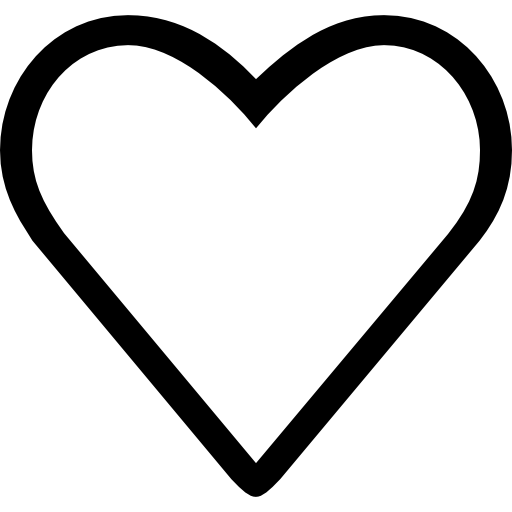
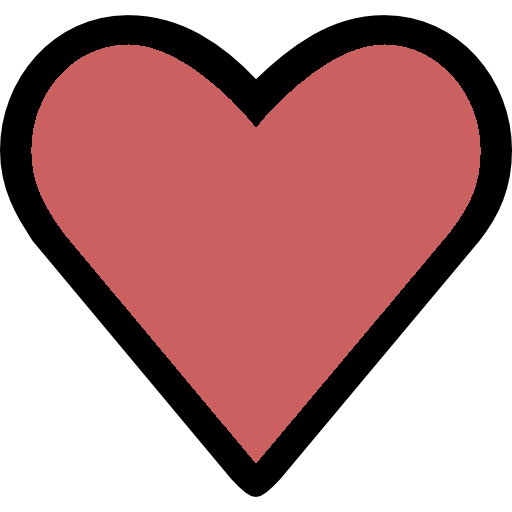
social updates

diff --git a/my-app/src/components/Feed/components/SocialUnit/SocialUnit.js b/my-app/src/components/Feed/components/SocialUnit/SocialUnit.js
@@ -1,5 +1,9 @@
 import React from "react";
 import "../../../../App.css";
+import "./Social.css";
+import { connect } from "react-redux";
+import { addHeart } from "./actions";
+
 
 class SocialUnit extends React.Component {
 
@@ -11,17 +15,17 @@ class SocialUnit extends React.Component {
   }
 
 
-  handleheart = (messageID) => {
+  handleHeart = (messageID) => {
     const { currUser } = this.props;
     let heartsToGive = -1;
-    if (!this.state.clapsGiven) {
+    if (!this.state.heartGiven) {
       heartsToGive = 1;
     }
     this.setState({
-      clapsGiven: !this.state.clapsGiven,
+      heartGiven: !this.state.heartGiven,
     });
     const info = { id: messageID, value: heartsToGive, donor: currUser};
-    //this.props.addClap(info);
+    this.props.addHeart(info);
   };
 
 
@@ -31,22 +35,26 @@ class SocialUnit extends React.Component {
       <div className="container-div bg-secondary">
         <div className="socialUnit">
           <div className={"row"}>
-            <div className={"col d-flex socialHeart justify-content-end align-items-center"}>
+            <div className={"col-1 d-flex socialHeart justify-content-start align-items-center"}>
               <button
                 className="heartButton"
                 onClick={() => this.handleHeart(messageID)}
-                style={{backgroundColor: (this.state.heartGiven)? "#d68b0d": "#FCA311"}}
+                style={{backgroundColor: "transparent"}}
               >
                 <img
                   className="heartButtonImg"
                   src={(this.state.heartGiven)? "heart_icon_selected.png" : "heart_icon.png"}
                   width="25px"
                   height="25px"
-                  style={{backgroundColor: (this.state.heartGiven)? "#d68b0d": "#FCA311"}}
+                  style={{backgroundColor: "transparent"}}
                   alt=""
                 />
-                {(heartNum >= 1000)? Number.parseFloat(heartNum/1000).toPrecision(2) + "k" : heartNum}
               </button>
+            </div>
+            <div className={"col-1 d-flex socialHeart justify-content-start align-items-center"}>
+              {(heartNum >= 1000)? Number.parseFloat(heartNum/1000).toPrecision(2) + "k" : heartNum}
+            </div>
+            <div className={"col-10 d-flex socialHeart justify-content-start align-items-center"}>
             </div>
           </div>
         </div>
@@ -55,5 +63,15 @@ class SocialUnit extends React.Component {
   }
 }
 
+// state has entire state of app!!
+const mapStateToProps = (state) => {
+  // name is by convention
+  return {
+    messages: state.messages.messages,
+    popupSeen: state.popupToggle.popPresent,
+    popupID: state.popupToggle.popID,
+    currUser: state.userState.currentUserID
+  }; // now it will appear as props
+};
 
-export default SocialUnit;
+export default connect(mapStateToProps, { addHeart })(SocialUnit);

diff --git a/my-app/src/reducers/messageReducers.js b/my-app/src/reducers/messageReducers.js
@@ -41,21 +41,70 @@ const initialMessageState = {
   ],
 };
 
+const HEART_LIMIT = 9999;
+
+
+// remove donor from heartsGivenBy for message
+const removeHeartDonor = (message, donor) => {
+  const index = message.heartsGivenBy.indexOf(donor);
+  if (index > -1) {
+    message.heartsGivenBy.splice(index, 1);
+  }
+};
+
+// heart handler helper
+const doHeart = (msg, action, newMessages) => {
+  msg.hearts += Number(action.payload.value);
+  if (action.payload.value === 1) {
+    msg.heartsGivenBy.push(action.payload.donor);
+  } else {
+    removeHeartDonor(msg, action.payload.donor);
+  }
+  return { messages: newMessages };
+};
+
+
+// heart handler
+const handleAddHeart = (state, action) => {
+  const newMessages = [...state.messages];
+  for (const msg of newMessages) {
+    if (msg.id === action.payload.id) {
+      if (msg.hearts < HEART_LIMIT) {
+        return doHeart(msg, action, newMessages);
+      } else {
+        return state;
+      }
+    }
+  }
+  return state; //no match found ---> error state
+};
+
 // Updates the message state to display on the Chatter Feed
 const messageReducer = (state = initialMessageState, action) => {
-  if (action.type === "ADD_MESSAGE") {
-    // spread operator to copy msgs to new array, then push new msg
-    const newState = [...state.messages, action.message];
-    return { messages: newState };
+
+  switch(action.type) {
+    case "ADD_HEART":
+    {
+      return handleAddHeart(state, action);
+    }
+    case "ADD_MESSAGE":
+    {
+      // spread operator to copy msgs to new array, then push new msg
+      const newState = [...state.messages, action.message];
+      return { messages: newState };
+    }
+    case "DELETE_MESSAGE":
+    {
+      const filteredMessages = state.messages.filter((message) => {
+        // evaluates to false if id matches then doesn't add it to array
+        return message.id !== action.id;
+      });
+      return { messages: filteredMessages };
+    }
+    default:
+      return state;
   }
-  if (action.type === "DELETE_MESSAGE") {
-    const filteredMessages = state.messages.filter((message) => {
-      // evaluates to false if id matches then doesn't add it to array
-      return message.id !== action.id;
-    });
-    return { messages: filteredMessages };
-  }
-  return state;
+
 };
 
 export default messageReducer;

diff --git a/my-app/src/reducers/index.js b/my-app/src/reducers/index.js
@@ -1,8 +1,7 @@
 import { combineReducers } from "redux";
 import userReducer from "./userReducers";
 import messageReducer from "./messageReducers";
-
-
+import userStateReducer from "./userStateReducer";
 
 // Message Details Popup {likely to be deprecated in the near future}
 const popupToggle = {
@@ -23,5 +22,6 @@ export default combineReducers({
   messages: messageReducer,
   popupToggle: toggleReducer,
   users: userReducer,
+  userState: userStateReducer,
   // anotherKey: anotherReducer //all your reducers should be combined
 });

diff --git a/my-app/src/reducers/userStateReducer.js b/my-app/src/reducers/userStateReducer.js
@@ -1,0 +1,12 @@
+export const currentUserState = {
+  currentUserID: "patrickstar@gmail.com"
+};
+
+const userStateReducer = (state = currentUserState, action) => {
+  if (action.type === "GET_USER") {
+    return state;
+  }
+  return state;
+};
+
+export default userStateReducer;

diff --git a/my-app/src/components/Feed/components/SocialUnit/Social.css b/my-app/src/components/Feed/components/SocialUnit/Social.css
@@ -1,0 +1,17 @@
+.heartButtonImg{
+  padding: 5px;
+}
+
+.heartButton{
+  border: transparent;
+  width: 60px;
+}
+
+.heartButton:active {
+  outline: none;
+  border: none;
+}
+
+.heartButton:focus {
+  outline:0;
+}

diff --git a/my-app/src/components/Feed/components/SocialUnit/actions.js b/my-app/src/components/Feed/components/SocialUnit/actions.js
@@ -1,0 +1,7 @@
+// action for adding hearts to a ChitChat
+export const addHeart = (payload) => {
+  return {
+    type: "ADD_HEART",
+    payload: payload,
+  };
+};
